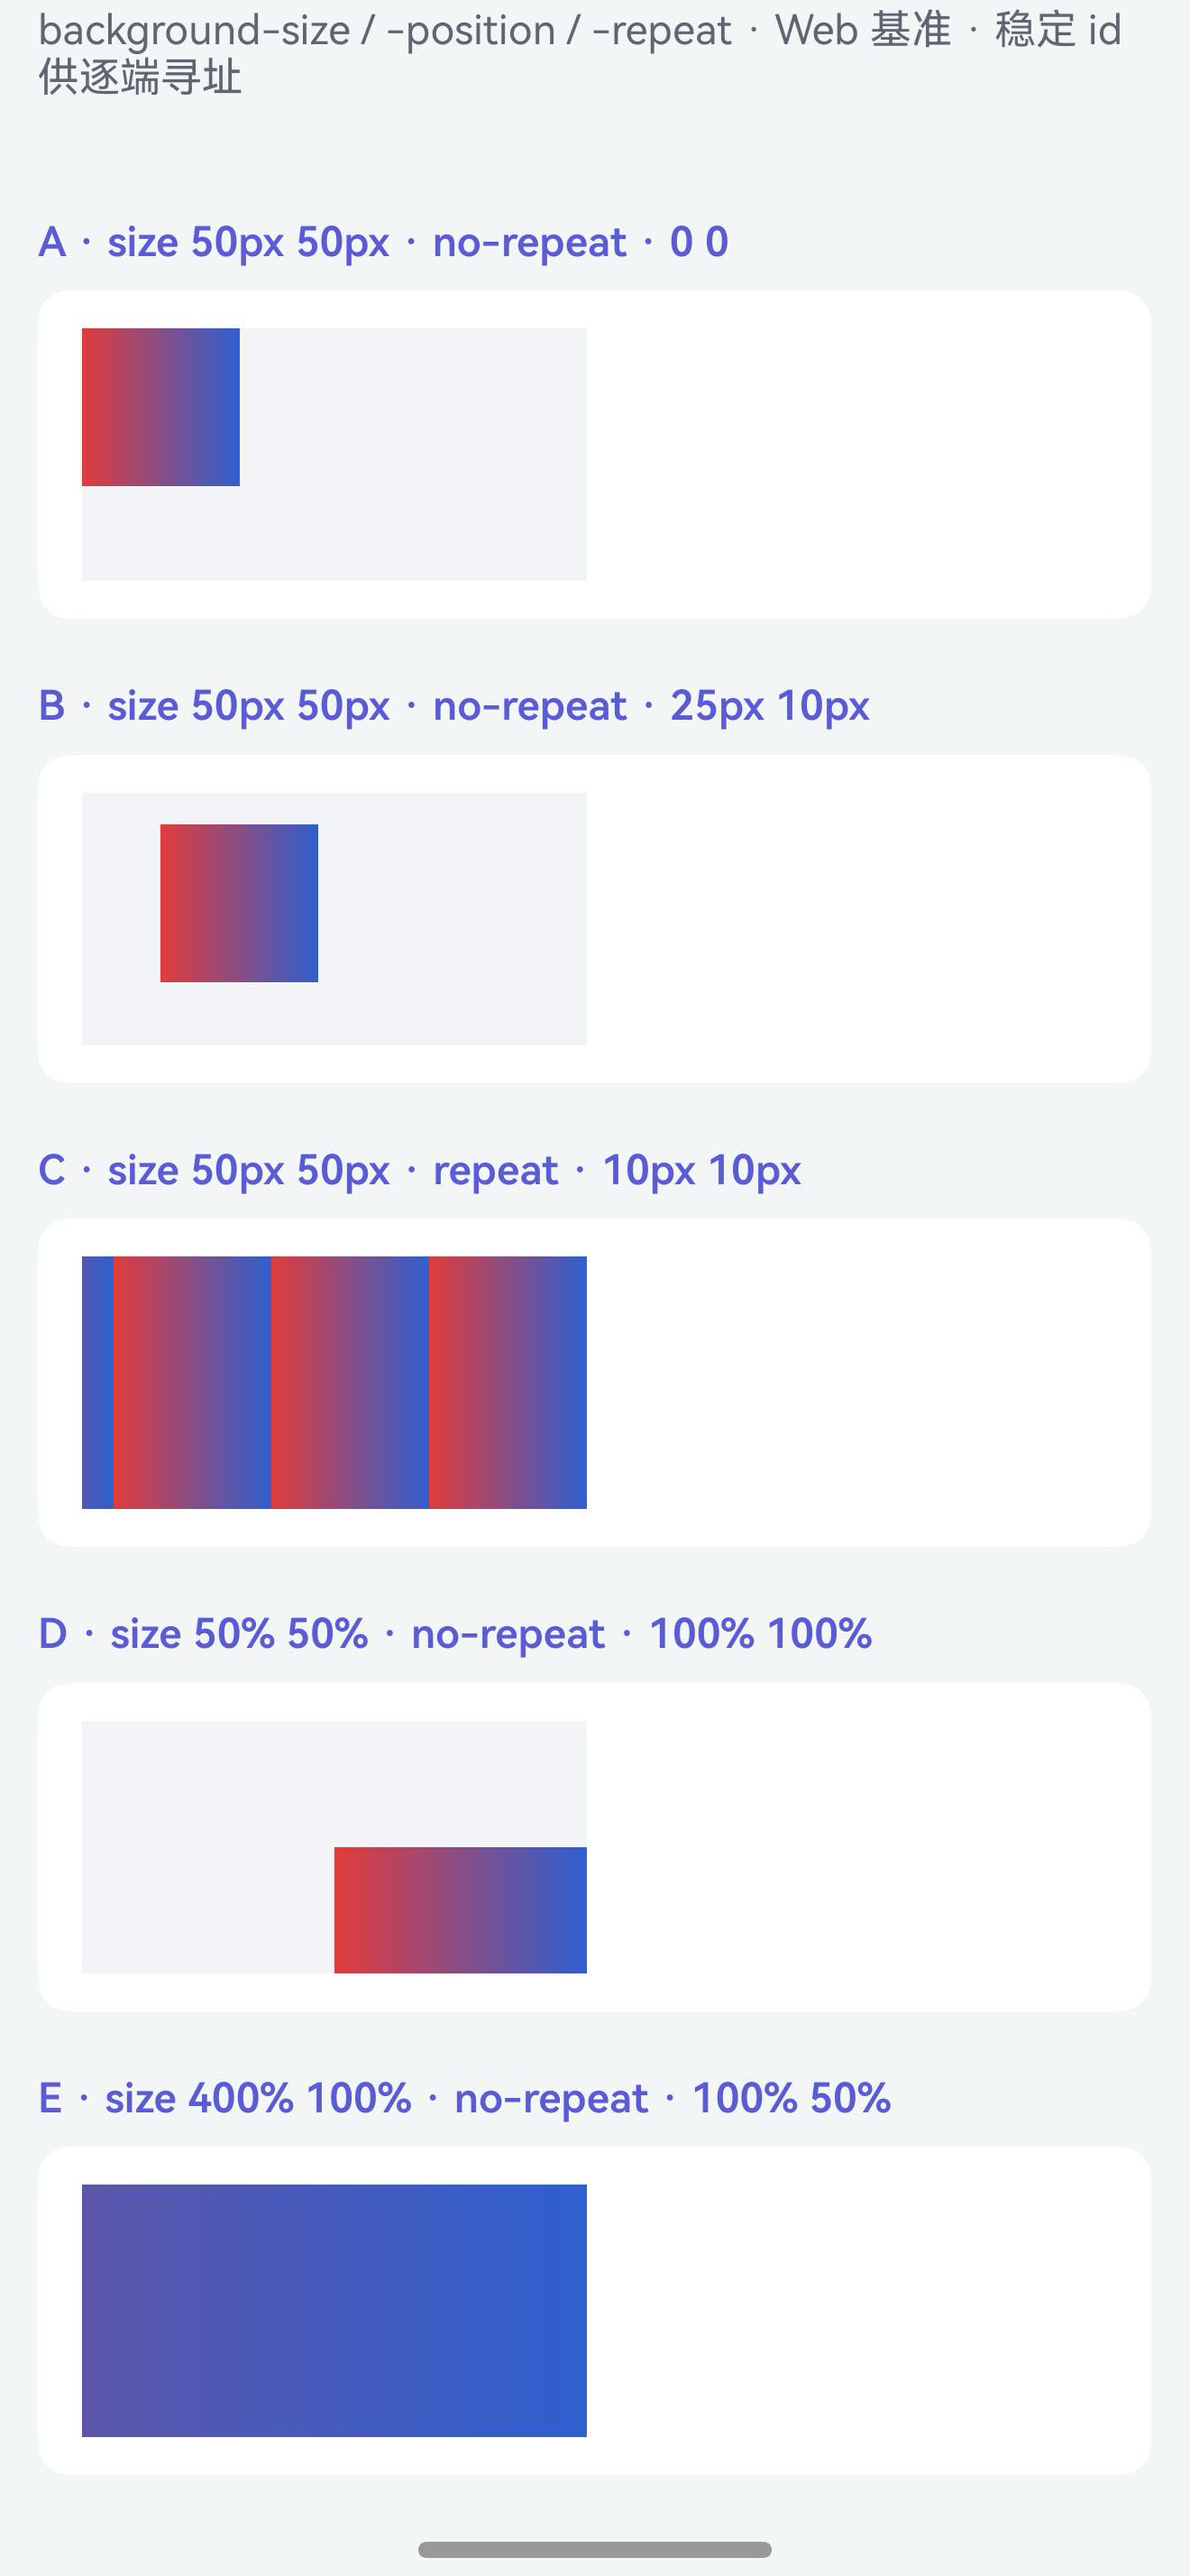
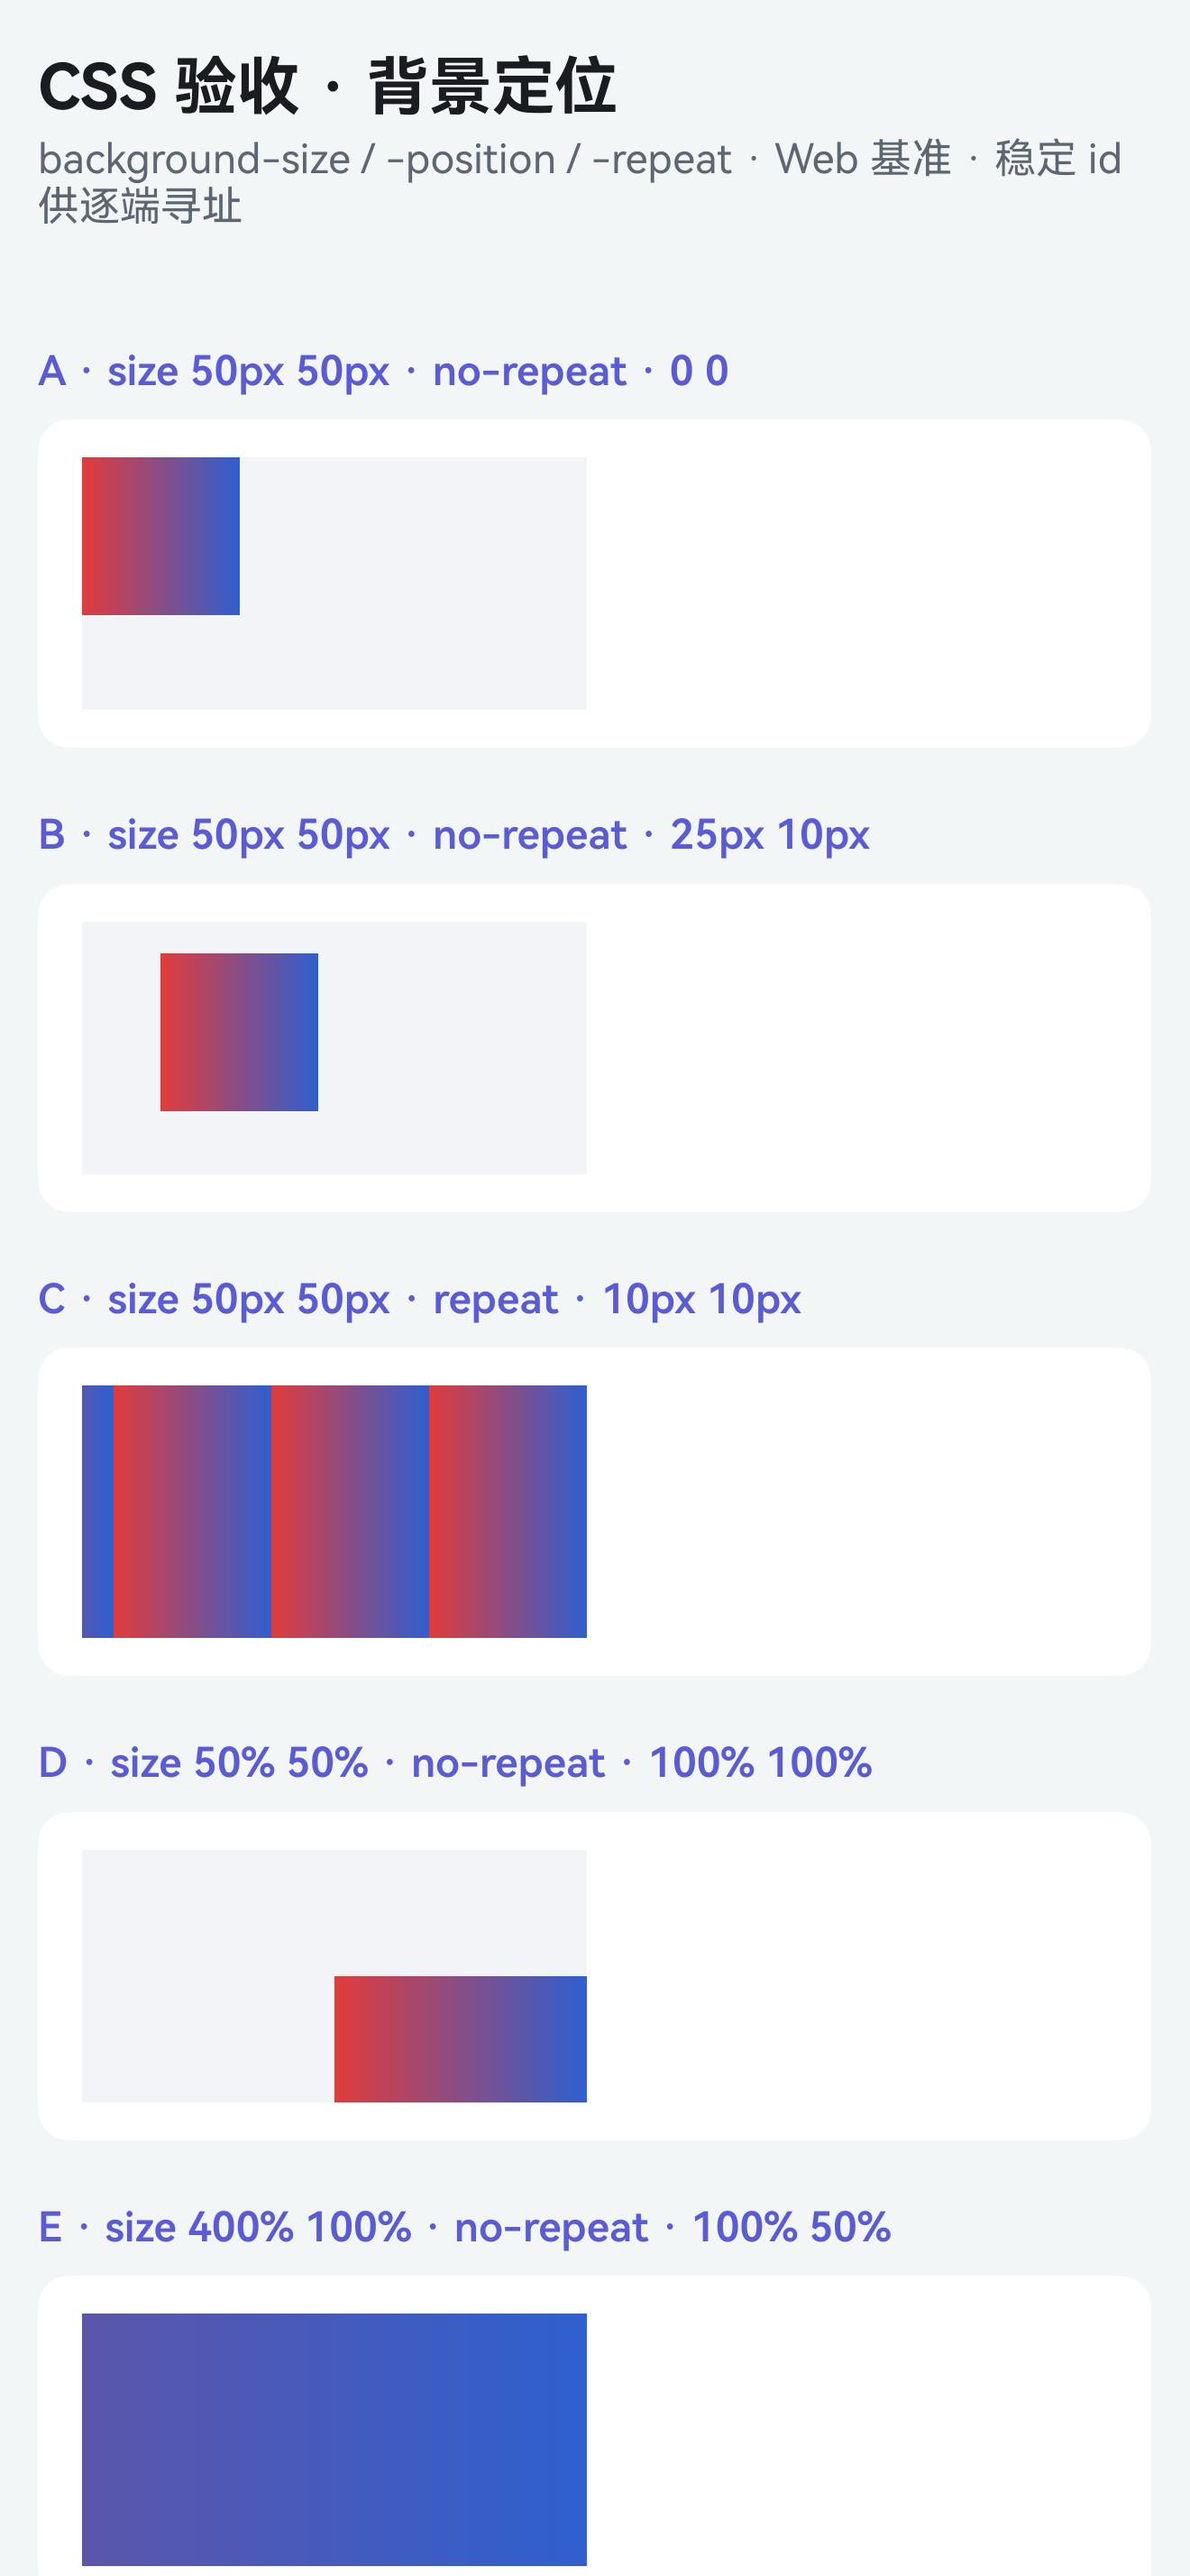
fix(harmony): 逐屏截图不滚到底（页顶锚定）——修「鸿蒙页面偏下」（内容溢出时切掉页头，与 Web 基准坐标系不符）[deploy]
用户：「鸿蒙的页面好像偏下了」。根因：`superapp-screen-*` 逐屏截图路径调 `scrollToBottom()`，
内容高于视口的页（background-position contentH=857 > 视口 816）被滚到底 ⇒ **切掉页头/标题**、
整体与 Web 基准错位（Web 基线是**视口截图=页顶锚定**）。

改为**不滚到底**（保持 offset=0，页顶对齐）；Android/iOS 逐屏路径本来就 top-anchor，鸿蒙补齐一致。
重截：background-position 页标题复位、与 Web 逐行对齐（其余 6 页不溢出 ⇒ 无变化）。

判据：host-layering 绿 · 六页重截（仅溢出页变化）· 侧对比对齐。决策 #569 补⑧。

diff --git a/docs/css-background-family-plan.md b/docs/css-background-family-plan.md
@@ -11,7 +11,8 @@
 > ③ **iOS 渐变子层建层时父 bounds=0** ⇒ frame 恒为 0 ⇒ 不可见——改由**布局后统一 `syncGradientFrames()`** 设帧（多条建层路径同享一次）。
 > ④ **图像盒可超出元素**（如 size 400%）⇒ 必须裁到元素盒（Web 背景绘制区）——Android/iOS/鸿蒙三端均补裁剪。
 > ★**取图口径教训（probe 报 mp/鸿蒙边缘差）**：5 案例高于视口 ⇒ 设备截图为**视口裁剪**，而 probe 拿**整页** Web 基准比对 ⇒ 假红；粘性截图需按页面视口裁剪基准。
-> ★**pre-existing 缺口（非本批引入）**：鸿蒙对**应用内容**（`appScreenCommands`）的 cmd 流**不产出 `grad` 键**（该键目前仅 dev `proteus_bench.cpp` 产）⇒ 鸿蒙 app 内容不渲染渐变；本批鸿蒙几何已就位，待该路径接线后生效。
+> ★**（#569 已补）鸿蒙 grad 通路**：已在本项内接通（`appScreenCommands` 产 `grad` 键 + px×density + `gradEndpoints` 几何改 CSS 同式）；**iOS repeat** 亦本项内解决（栅格化 tile + `draw(byTiling:)`）。
+> ★**（#569 修）鸿蒙逐屏截图锚点**：`superapp-screen-*` 路径原**滚到底**（`scrollToBottom`）⇒ 内容高于视口的页（如本页 contentH 857 > 视口 816）**切掉页头/标题**、与 Web 基准（**视口截图=页顶锚定**）坐标系不符（用户抓出「鸿蒙页面偏下」）。改为**不滚到底**（保持 offset=0，页顶对齐）。
 
 > **来源**：`css:next` 指向 `background-position`（P0 · 用法 4×）。侦察发现它**不可独立交付**——
 > 三端宿主把渐变**硬编码为「填满整个盒」**（无 size/position/repeat 概念），且语料 4× 全部与

diff --git a/docs/project-memory-archive/decisions.md b/docs/project-memory-archive/decisions.md
@@ -1293,3 +1293,4 @@
 **⑤ 判据（四端全过）**：`css:verify` 三项三段全绿 · **真机重跑**：Android ✅ / **iOS ✅（案例 C 平铺已验：子代理逐像素确认 ~3-4 段砖、相位 10,10）** / **鸿蒙 ✅（子代理逐像素确认 A–E 全对：D 全跨单调 ramp、E 紫→蓝切片；旧式几何缺陷已修）** / MP ✅ · 全量 5319/5319 · 三端零设备编译全绿 · 门禁全绿。
 **⑥ 教训**：#568 把「鸿蒙 app-content 不产 grad」当 pre-existing、把「iOS 无 tile」当具名边界——**都是"本端能实现、只差接线/实现"**，按新铁律**必须本项补齐**（正是用户点名要纠正的）。
 **⑦ 影响**：`hosts/harmony/.../proteus_host.cpp`（grad 通路）+ `hosts/harmony/.../proteus_render.cpp`（gradEndpoints 几何）· `hosts/ios/ProteusHost/runtime/selfdraw-scene.swift`（tile 栅格化）· `AGENTS.md`（新铁律）· `css-conformance/PLAYBOOK.md`（§0）· 验收页 + 四端截图。
+**⑧ 追赶修（用户「鸿蒙的页面好像偏下了」）**：鸿蒙 `superapp-screen-*` 逐屏截图路径原**滚到底**（`scrollToBottom`）⇒ 内容高于视口的页（本页 contentH 857 > 视口 816）**切掉页头/标题**，与 Web 基准（**视口截图=页顶锚定**）坐标系不符。改为**不滚到底**（保持 offset=0）⇒ 页顶对齐（Android/iOS 逐屏路径本就 top-anchor，鸿蒙补齐一致）。
